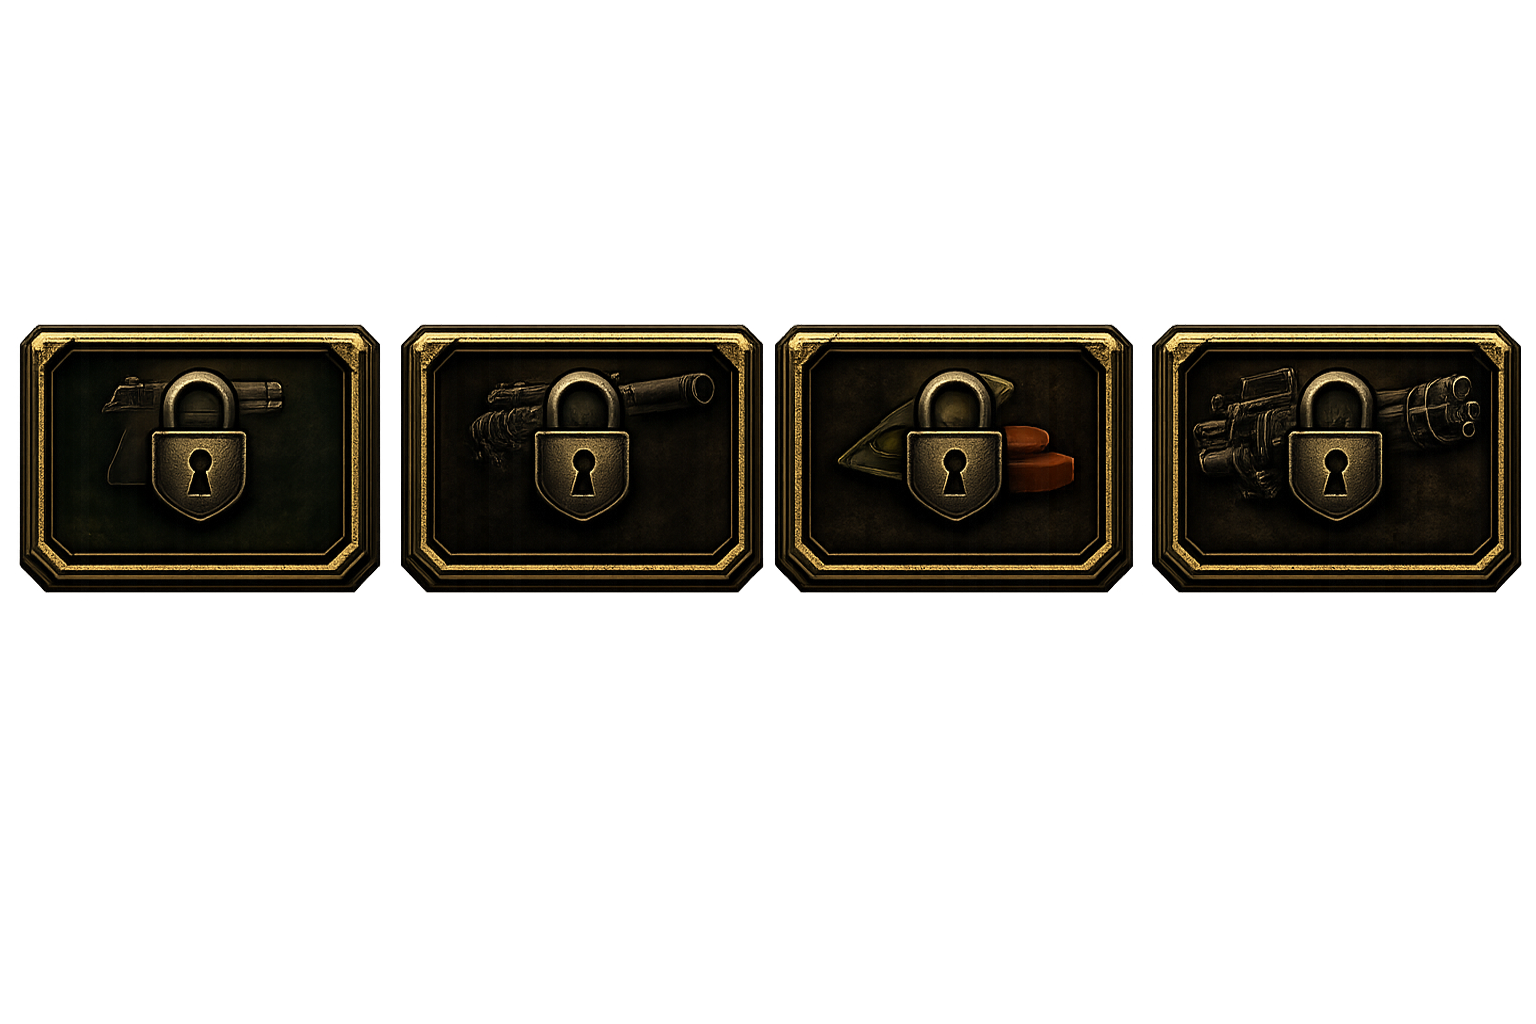
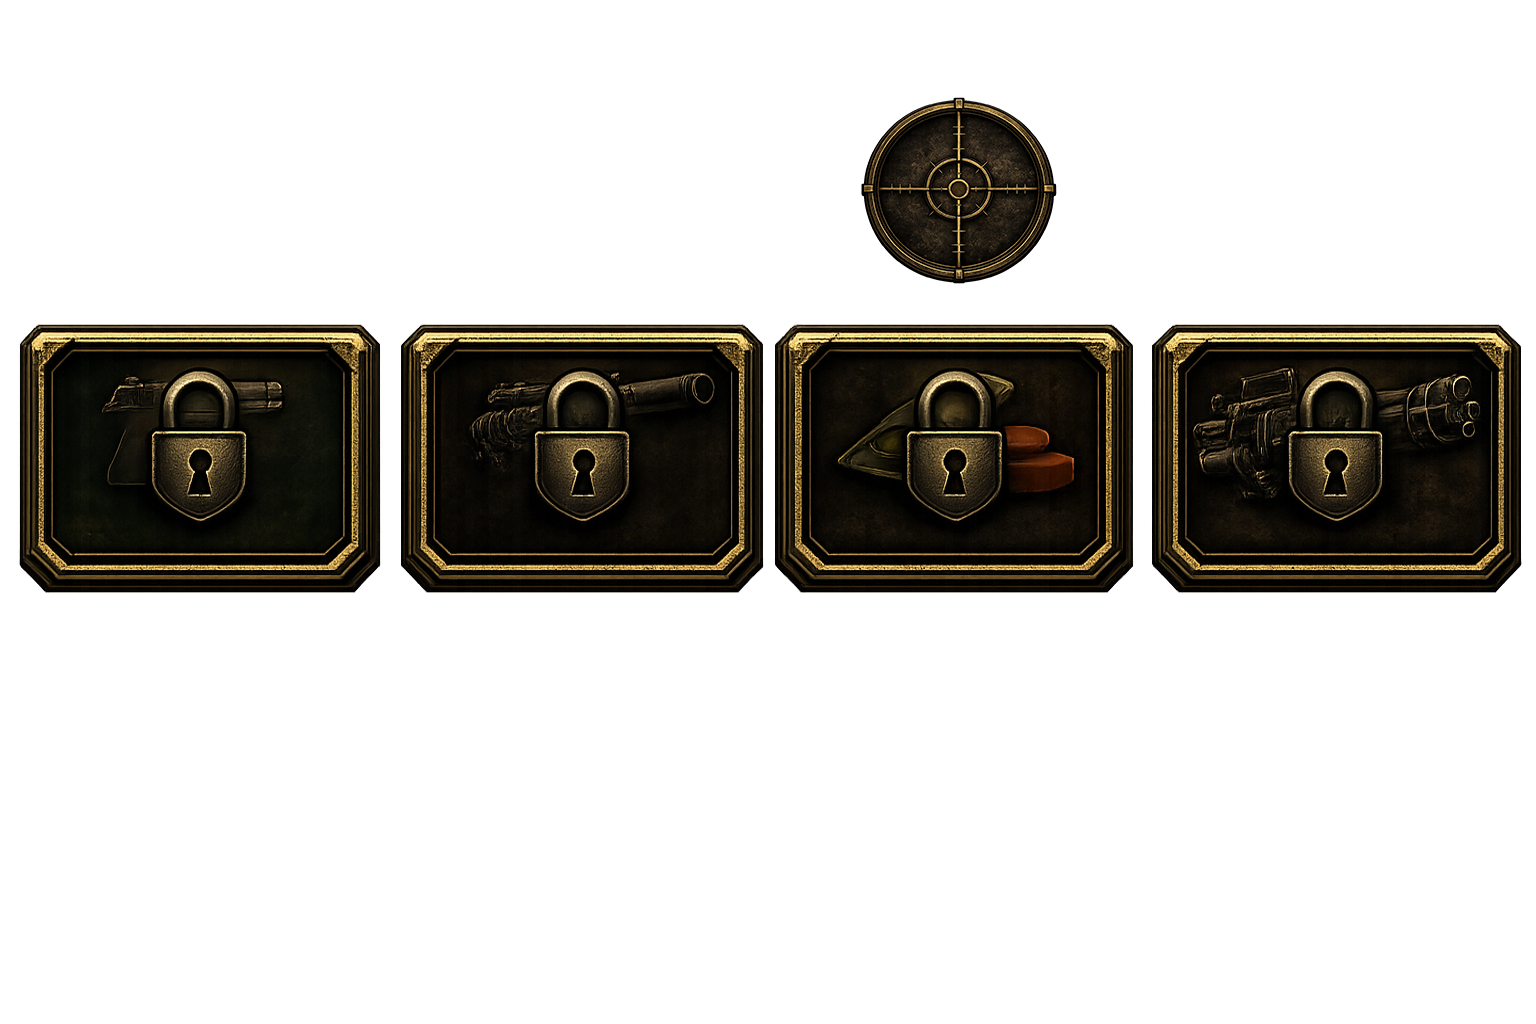
ft: add brick target

Changed region(s): [[0.5625, 0.0938, 0.6875, 0.2812]]

diff --git a/src/ui.tsx b/src/ui.tsx
@@ -13,7 +13,12 @@ import {
   canAffordMinigun,
   switchTo
 } from './weaponManager'
-import { tryPlaceBrick, BRICK_COST_ZC } from './brick'
+import {
+  BRICK_COST_ZC,
+  activateBrickTargetMode,
+  confirmBrickPlacementFromTargetMode,
+  isBrickTargetModeActive
+} from './brick'
 import {
   getLobbyState,
   getMatchRuntimeState,
@@ -57,6 +62,10 @@ const MINIGUN_BUTTON_UVS = [0.748698, 0.416992, 0.748698, 0.6875, 0.992188, 0.68
 const BRICK_BUTTON_WIDTH = 180
 const BRICK_BUTTON_HEIGHT = 137
 const BRICK_BUTTON_UVS = [0.503906, 0.418945, 0.503906, 0.686523, 0.73763, 0.686523, 0.73763, 0.418945]
+const BRICK_TARGET_RETICLE_WIDTH = 106
+const BRICK_TARGET_RETICLE_HEIGHT = 98
+// WEAPONS_LOCK.png region: x=853, y=92, w=213, h=196 (1536x1024 atlas, V axis bottom-up in UI UVs)
+const BRICK_TARGET_RETICLE_UVS = [0.555339, 0.71875, 0.555339, 0.910156, 0.69401, 0.910156, 0.69401, 0.71875]
 const LOADOUT_TELEPORT_POSITION = { x: 81.4, y: 3, z: 21.5 }
 const LOADOUT_LOOK_TARGET = { x: 76, y: 3, z: 21.5 }
 
@@ -94,6 +103,7 @@ export const uiMenu = () => {
   const showCenteredOverlay = (!isIdle || playerDead) && !inMatchContext
 
   const showZcCounter = !isIdle || inMatchContext
+  const brickTargetModeActive = isBrickTargetModeActive()
   const playerHpRatio = Math.max(0, Math.min(1, getPlayerHp() / MAX_HP))
   const hpFrameScale = PLAYER_HP_FRAME_WIDTH / 968
   const playerHpFillWidth = Math.round(PLAYER_HP_FILL_SOURCE_W * hpFrameScale)
@@ -412,7 +422,7 @@ export const uiMenu = () => {
                 flexDirection: 'column',
                 alignItems: 'center',
                 justifyContent: 'center',
-                margin: {left: 30}
+                margin: {left: 50}
               }}
               uiText={{
                 value: `${getZombieCoins()}`,
@@ -680,70 +690,101 @@ export const uiMenu = () => {
                       : weapon === 'minigun'
                         ? !isMinigunUnlocked()
                         : getZombieCoins() < BRICK_COST_ZC
+                const buttonWidth =
+                  weapon === 'gun'
+                    ? GUN_BUTTON_WIDTH
+                    : weapon === 'shotgun'
+                      ? SHOTGUN_BUTTON_WIDTH
+                      : weapon === 'minigun'
+                        ? MINIGUN_BUTTON_WIDTH
+                        : weapon === 'brick'
+                          ? BRICK_BUTTON_WIDTH
+                          : 288
+                const buttonHeight =
+                  weapon === 'gun'
+                    ? GUN_BUTTON_HEIGHT
+                    : weapon === 'shotgun'
+                      ? SHOTGUN_BUTTON_HEIGHT
+                      : weapon === 'minigun'
+                        ? MINIGUN_BUTTON_HEIGHT
+                        : weapon === 'brick'
+                          ? BRICK_BUTTON_HEIGHT
+                          : 106
                 const spriteSheetSrc = isLockedVisual ? WEAPONS_LOCK_SHEET_SRC : WEAPONS_SHEET_SRC
                 return (
                   <UiEntity
                     key={weapon}
                     uiTransform={{
-                      width:
-                        weapon === 'gun'
-                          ? GUN_BUTTON_WIDTH
-                          : weapon === 'shotgun'
-                            ? SHOTGUN_BUTTON_WIDTH
-                            : weapon === 'minigun'
-                              ? MINIGUN_BUTTON_WIDTH
-                              : weapon === 'brick'
-                                ? BRICK_BUTTON_WIDTH
-                              : 288,
-                      height:
-                        weapon === 'gun'
-                          ? GUN_BUTTON_HEIGHT
-                          : weapon === 'shotgun'
-                            ? SHOTGUN_BUTTON_HEIGHT
-                            : weapon === 'minigun'
-                              ? MINIGUN_BUTTON_HEIGHT
-                              : weapon === 'brick'
-                                ? BRICK_BUTTON_HEIGHT
-                              : 106,
+                      width: buttonWidth,
+                      height: buttonHeight + BRICK_TARGET_RETICLE_HEIGHT + 12,
                       positionType: 'relative',
-                      margin: { left: 19, right: 19, bottom: 14 }
+                      margin: { left: 19, right: 19, bottom: 14 },
+                      flexDirection: 'column',
+                      alignItems: 'center',
+                      justifyContent: 'flex-end'
                     }}
-                    uiBackground={
-                      weapon === 'gun'
-                        ? {
-                            textureMode: 'stretch',
-                            texture: { src: spriteSheetSrc, filterMode: 'tri-linear', wrapMode: 'clamp' },
-                            uvs: GUN_BUTTON_UVS
-                          }
-                        : weapon === 'shotgun'
+                  >
+                    {weapon === 'brick' && brickTargetModeActive && (
+                      <UiEntity
+                        uiTransform={{
+                          width: BRICK_TARGET_RETICLE_WIDTH,
+                          height: BRICK_TARGET_RETICLE_HEIGHT,
+                          margin: { bottom: 12 }
+                        }}
+                        uiBackground={{
+                          textureMode: 'stretch',
+                          texture: { src: WEAPONS_LOCK_SHEET_SRC, filterMode: 'tri-linear', wrapMode: 'clamp' },
+                          uvs: BRICK_TARGET_RETICLE_UVS
+                        }}
+                      />
+                    )}
+                    <UiEntity
+                      uiTransform={{
+                        width: buttonWidth,
+                        height: buttonHeight,
+                        positionType: 'relative'
+                      }}
+                      uiBackground={
+                        weapon === 'gun'
                           ? {
                               textureMode: 'stretch',
                               texture: { src: spriteSheetSrc, filterMode: 'tri-linear', wrapMode: 'clamp' },
-                              uvs: SHOTGUN_BUTTON_UVS
+                              uvs: GUN_BUTTON_UVS
                             }
-                        : weapon === 'minigun'
-                          ? {
-                              textureMode: 'stretch',
-                              texture: { src: spriteSheetSrc, filterMode: 'tri-linear', wrapMode: 'clamp' },
-                              uvs: MINIGUN_BUTTON_UVS
-                            }
-                        : weapon === 'brick'
-                          ? {
-                              textureMode: 'stretch',
-                              texture: { src: spriteSheetSrc, filterMode: 'tri-linear', wrapMode: 'clamp' },
-                              uvs: BRICK_BUTTON_UVS
-                            }
-                        : { color: Color4.create(0.2, 0.75, 0.35, 1) }
-                    }
-                    onMouseDown={() => {
-                      if (!canUse) return
-                      if (weapon === 'brick') {
-                        tryPlaceBrick()
-                      } else {
-                        switchTo(weapon)
+                          : weapon === 'shotgun'
+                            ? {
+                                textureMode: 'stretch',
+                                texture: { src: spriteSheetSrc, filterMode: 'tri-linear', wrapMode: 'clamp' },
+                                uvs: SHOTGUN_BUTTON_UVS
+                              }
+                            : weapon === 'minigun'
+                              ? {
+                                  textureMode: 'stretch',
+                                  texture: { src: spriteSheetSrc, filterMode: 'tri-linear', wrapMode: 'clamp' },
+                                  uvs: MINIGUN_BUTTON_UVS
+                                }
+                              : weapon === 'brick'
+                                ? {
+                                    textureMode: 'stretch',
+                                    texture: { src: spriteSheetSrc, filterMode: 'tri-linear', wrapMode: 'clamp' },
+                                    uvs: BRICK_BUTTON_UVS
+                                  }
+                                : { color: Color4.create(0.2, 0.75, 0.35, 1) }
                       }
-                    }}
-                  />
+                      onMouseDown={() => {
+                        if (!canUse) return
+                        if (weapon === 'brick') {
+                          if (brickTargetModeActive) {
+                            confirmBrickPlacementFromTargetMode()
+                          } else {
+                            activateBrickTargetMode()
+                          }
+                        } else {
+                          switchTo(weapon)
+                        }
+                      }}
+                    />
+                  </UiEntity>
                 )
               })
             : (['Loadout', 'Upgrade'] as const).map((label) => (

diff --git a/src/brick.ts b/src/brick.ts
@@ -94,25 +94,122 @@ export function damageBrick(entity: Entity, amount: number): boolean {
 }
 
 const PLACE_DISTANCE = 1
+const BRICK_TARGET_TIMEOUT_MS = 5000
+const BRICK_TARGET_PREVIEW_SCALE = 1.05
+const BRICK_TARGET_PREVIEW_THICKNESS = 0.03
+const BRICK_TARGET_PREVIEW_Y = BRICK_TARGET_PREVIEW_THICKNESS / 2
+
+const BRICK_TARGET_PREVIEW_MATERIAL = {
+  albedoColor: Color4.create(0.9, 0.2, 0.15, 0.35),
+  emissiveColor: Color3.create(0.7, 0.15, 0.1),
+  emissiveIntensity: 0.25,
+  metallic: 0,
+  roughness: 1
+}
 
 // Deferred spawn: UI only requests; a system does the actual spawn next frame (avoids issues when creating entities from UI callback).
 let pendingBrickPosition: Vector3 | null = null
+let brickTargetModeUntilMs = 0
+let brickTargetPreviewEntity: Entity | null = null
 
-/** Request placing a brick next frame. Call from UI; costs ZC immediately, spawn happens in game loop. */
-export function tryPlaceBrick(): boolean {
-  if (!Transform.has(engine.PlayerEntity)) return false
-  if (!spendZombieCoins(BRICK_COST_ZC)) return false
+function getPlacementPositionFromPlayer(): Vector3 | null {
+  if (!Transform.has(engine.PlayerEntity)) return null
   const t = Transform.get(engine.PlayerEntity)
   const forward = Vector3.rotate(Vector3.Forward(), t.rotation)
   forward.y = 0
   const dir = Vector3.normalize(forward)
   const placePos = Vector3.add(t.position, Vector3.scale(dir, PLACE_DISTANCE))
   placePos.y = 0
-  pendingBrickPosition = Vector3.create(placePos.x, placePos.y, placePos.z)
+  return Vector3.create(placePos.x, placePos.y, placePos.z)
+}
+
+function isTargetModeStillActive(nowMs: number): boolean {
+  return brickTargetModeUntilMs > nowMs
+}
+
+function hideTargetPreview() {
+  if (brickTargetPreviewEntity !== null && Transform.has(brickTargetPreviewEntity)) {
+    Transform.getMutable(brickTargetPreviewEntity).scale = Vector3.Zero()
+  }
+}
+
+function ensureTargetPreviewEntity(): Entity {
+  if (brickTargetPreviewEntity !== null && Transform.has(brickTargetPreviewEntity)) {
+    return brickTargetPreviewEntity
+  }
+  const entity = engine.addEntity()
+  Transform.create(entity, {
+    position: Vector3.Zero(),
+    rotation: Quaternion.Identity(),
+    scale: Vector3.Zero()
+  })
+  MeshRenderer.setBox(entity)
+  Material.setPbrMaterial(entity, BRICK_TARGET_PREVIEW_MATERIAL)
+  brickTargetPreviewEntity = entity
+  return entity
+}
+
+function updateBrickTargetPreview(nowMs: number): void {
+  if (!isTargetModeStillActive(nowMs)) {
+    brickTargetModeUntilMs = 0
+    hideTargetPreview()
+    return
+  }
+  const placement = getPlacementPositionFromPlayer()
+  if (!placement) {
+    hideTargetPreview()
+    return
+  }
+  const previewEntity = ensureTargetPreviewEntity()
+  const previewTransform = Transform.getMutable(previewEntity)
+  previewTransform.position = Vector3.create(placement.x, BRICK_TARGET_PREVIEW_Y, placement.z)
+  previewTransform.rotation = Quaternion.Identity()
+  previewTransform.scale = Vector3.create(BRICK_TARGET_PREVIEW_SCALE, BRICK_TARGET_PREVIEW_THICKNESS, BRICK_TARGET_PREVIEW_SCALE)
+}
+
+export function isBrickTargetModeActive(nowMs: number = Date.now()): boolean {
+  return isTargetModeStillActive(nowMs)
+}
+
+export function activateBrickTargetMode(nowMs: number = Date.now()): boolean {
+  if (!Transform.has(engine.PlayerEntity)) return false
+  brickTargetModeUntilMs = nowMs + BRICK_TARGET_TIMEOUT_MS
+  return true
+}
+
+export function cancelBrickTargetMode(): void {
+  brickTargetModeUntilMs = 0
+  hideTargetPreview()
+}
+
+export function confirmBrickPlacementFromTargetMode(nowMs: number = Date.now()): boolean {
+  if (!isTargetModeStillActive(nowMs)) {
+    cancelBrickTargetMode()
+    return false
+  }
+  const placement = getPlacementPositionFromPlayer()
+  if (!placement) {
+    cancelBrickTargetMode()
+    return false
+  }
+  if (!spendZombieCoins(BRICK_COST_ZC)) return false
+  pendingBrickPosition = placement
+  cancelBrickTargetMode()
+  return true
+}
+
+/** Request placing a brick next frame. Call from UI; costs ZC immediately, spawn happens in game loop. */
+export function tryPlaceBrick(): boolean {
+  const placement = getPlacementPositionFromPlayer()
+  if (!placement) return false
+  if (!spendZombieCoins(BRICK_COST_ZC)) return false
+  pendingBrickPosition = placement
+  cancelBrickTargetMode()
   return true
 }
 
 function brickPlacementSystem(_dt: number) {
+  updateBrickTargetPreview(Date.now())
   if (pendingBrickPosition === null) return
   spawnBrickAt(pendingBrickPosition)
   pendingBrickPosition = null
@@ -126,6 +223,7 @@ export function initBrickSystem() {
 /** Remove all bricks (e.g. on game reset). */
 export function despawnAllBricks(): void {
   pendingBrickPosition = null
+  cancelBrickTargetMode()
   const toRemove: Entity[] = []
   for (const [entity] of engine.getEntitiesWith(BrickComponent)) {
     toRemove.push(entity)
